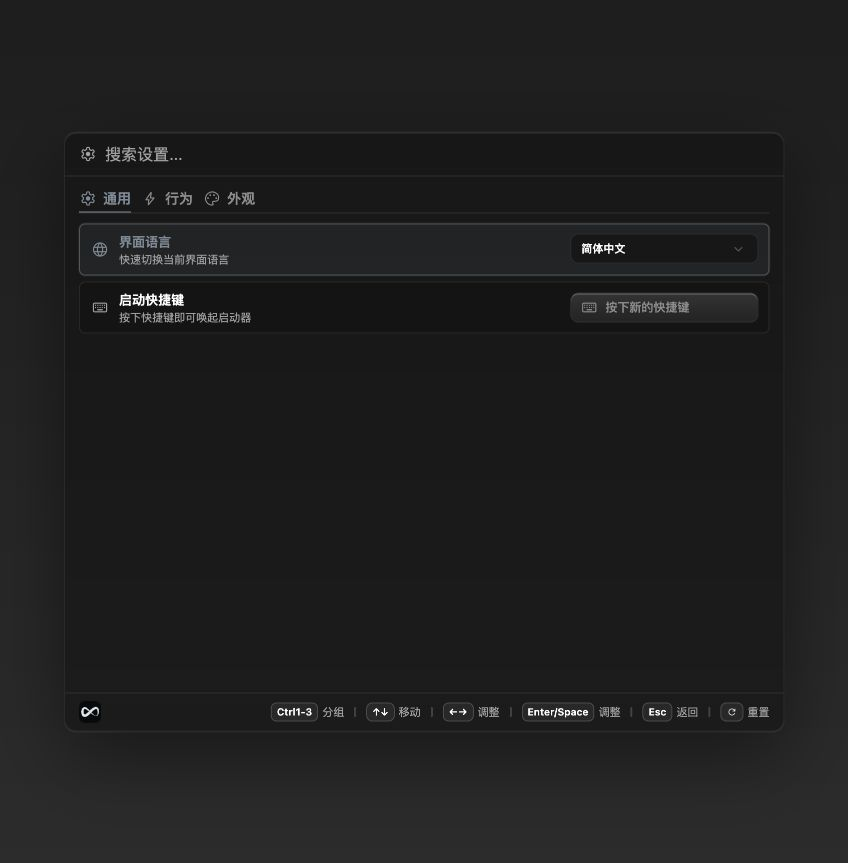
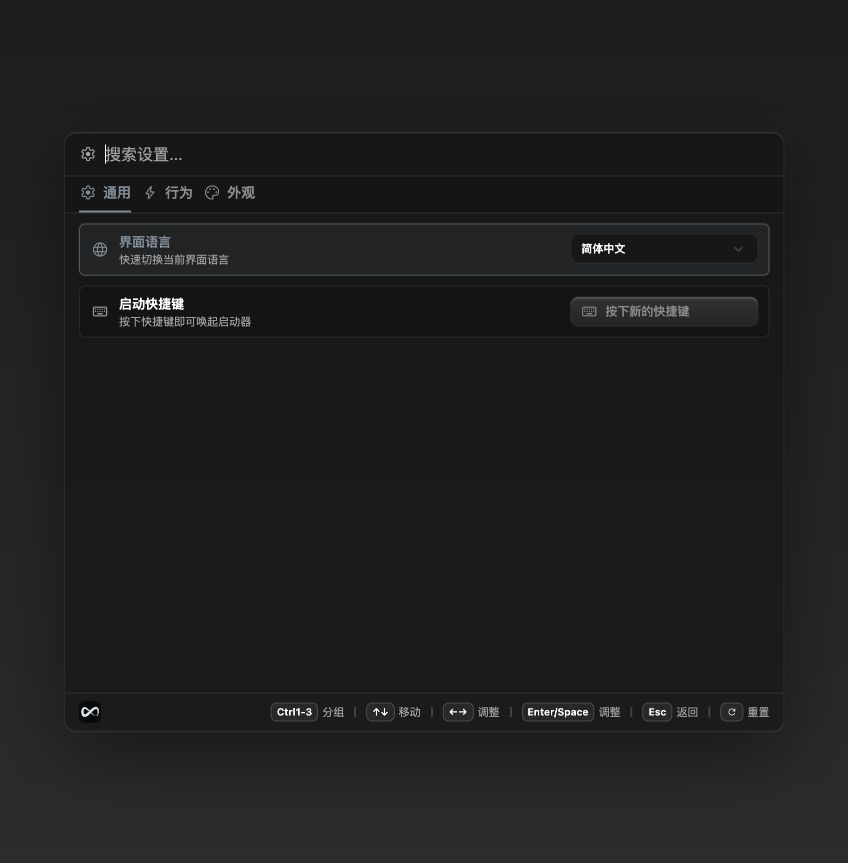
fix(launcher): refine settings spacing

Changed region(s): [[0.092, 0.3314, 0.3066, 0.3917], [0.6745, 0.3314, 0.8892, 0.3917], [0.092, 0.2109, 0.3066, 0.241]]

diff --git a/apps/client/__tests__/launcher-style-contract.spec.ts b/apps/client/__tests__/launcher-style-contract.spec.ts
@@ -3,7 +3,7 @@ import { readFileSync } from 'node:fs'
 import { describe, expect, it } from 'vitest'
 
 describe('launcher command item visual contract', () => {
-  it('keeps settings tabs unpadded and transparent by default', () => {
+  it('keeps settings tabs content-sized with a full-bleed sticky surface', () => {
     const settingsStyles = readFileSync(
       new URL(
         '../src/components/launcher/LauncherSettingsView.scss',
@@ -13,10 +13,25 @@ describe('launcher command item visual contract', () => {
     )
 
     expect(settingsStyles).toMatch(
-      /\.launcher-settings__tabs\s*\{[^}]*background:\s*var\(--oneworks-launcher-tab-bar-background,\s*transparent\)/
+      /\.launcher-settings__tabs\s*\{[^}]*top:\s*-10px;/
     )
     expect(settingsStyles).toMatch(
-      /\.launcher-settings__tab\s*\{[^}]*padding:\s*0;/
+      /\.launcher-settings__tabs\s*\{[^}]*margin:\s*-10px\s+calc\(var\(--launcher-command-list-padding-inline,\s*14px\)\s*\*\s*-1\)\s+0;/
+    )
+    expect(settingsStyles).toMatch(
+      /\.launcher-settings__tabs\s*\{[^}]*padding:\s*10px\s+var\(--launcher-command-list-padding-inline,\s*14px\)\s+0;/
+    )
+    expect(settingsStyles).toMatch(
+      /\.launcher-settings__tabs\s*\{[^}]*background:\s*var\(\s*--oneworks-launcher-tab-bar-background,\s*color-mix\(in srgb,\s*var\(--bg-color\)\s*92%,\s*var\(--sub-bg-color\)\)\s*\);/
+    )
+    expect(settingsStyles).toMatch(
+      /\.launcher-settings__tab\s*\{[^}]*padding:\s*0\s+0\s+10px;/
+    )
+    expect(settingsStyles).not.toMatch(
+      /\.launcher-settings__tab\s*\{[^}]*min-height:/
+    )
+    expect(settingsStyles).toMatch(
+      /\.launcher-settings__items\s*\{[^}]*gap:\s*10px;/
     )
   })
 

diff --git a/apps/client/src/components/launcher/LauncherSettingsView.scss b/apps/client/src/components/launcher/LauncherSettingsView.scss
@@ -7,30 +7,34 @@
 
 .launcher-settings__tabs {
   position: sticky;
-  top: 0;
+  top: -10px;
   z-index: 2;
   display: flex;
   align-items: flex-end;
   gap: var(--launcher-tab-gap, 10px);
   min-width: 0;
   overflow-x: auto;
-  padding: 0;
+  margin: -10px calc(var(--launcher-command-list-padding-inline, 14px) * -1) 0;
+  padding: 10px var(--launcher-command-list-padding-inline, 14px) 0;
   border-bottom: 1px solid
     var(
       --border-color,
       var(--sub-border-color, var(--ant-color-border-secondary, #d8dee4))
     );
   border-radius: 0;
-  background: var(--oneworks-launcher-tab-bar-background, transparent);
+  background: var(
+    --oneworks-launcher-tab-bar-background,
+    color-mix(in srgb, var(--bg-color) 92%, var(--sub-bg-color))
+  );
   backdrop-filter: var(
     --oneworks-launcher-tab-bar-backdrop-filter,
-    none
+    blur(18px) saturate(1.35)
   );
   box-sizing: border-box;
   scrollbar-width: none;
   -webkit-backdrop-filter: var(
     --oneworks-launcher-tab-bar-backdrop-filter,
-    none
+    blur(18px) saturate(1.35)
   );
 }
 
@@ -41,8 +45,7 @@
 .launcher-settings__tab {
   position: relative;
   min-width: 0;
-  min-height: var(--launcher-tab-height, 28px);
-  padding: 0;
+  padding: 0 0 10px;
   border: 0;
   border-radius: var(
     --launcher-tab-radius,
@@ -137,7 +140,7 @@
 .launcher-settings__items {
   display: flex;
   flex-direction: column;
-  gap: 6px;
+  gap: 10px;
 }
 
 .launcher-settings__item {

diff --git a/changelog/0.1.0-beta.10/client.md b/changelog/0.1.0-beta.10/client.md
@@ -1,4 +1,4 @@
 # @oneworks/client 0.1.0-beta.10
 
 - Add the Linear application icon theme. You can select and persist it in Web settings, with the Launcher and NavRail staying in sync; desktop uses the same preference and packaged icon assets.
-- Polish Launcher settings by removing the tab strip fill and horizontal tab padding, fixing empty shortcut input rendering, and supporting `Command+,` on macOS or `Ctrl+,` on Windows and Linux to open settings directly.
+- Polish Launcher settings with a full-bleed, content-sized tab strip and consistent 10px spacing, fix empty shortcut input rendering, and support `Command+,` on macOS or `Ctrl+,` on Windows and Linux to open settings directly.
